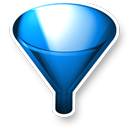
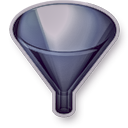
Use darker images

diff --git a/import-export.html b/import-export.html
@@ -1,7 +1,7 @@
 <!DOCTYPE html>
 <html>
   <head>
-    <title>OneTab import/export</title>
+    <title>DarkTab import/export</title>
 
     <link href="onetab.css" rel="stylesheet" type="text/css" />
 

diff --git a/onetab.html b/onetab.html
@@ -1,7 +1,7 @@
 <!DOCTYPE html>
 <html>
   <head>
-    <title>OneTab</title>
+    <title>DarkTab</title>
 
     <link href="onetab.css" rel="stylesheet" type="text/css" />
 

diff --git a/options.html b/options.html
@@ -1,6 +1,6 @@
 <html>
   <head>
-    <title>OneTab options</title>
+    <title>DarkTab options</title>
 
     <style>
       @font-face {
